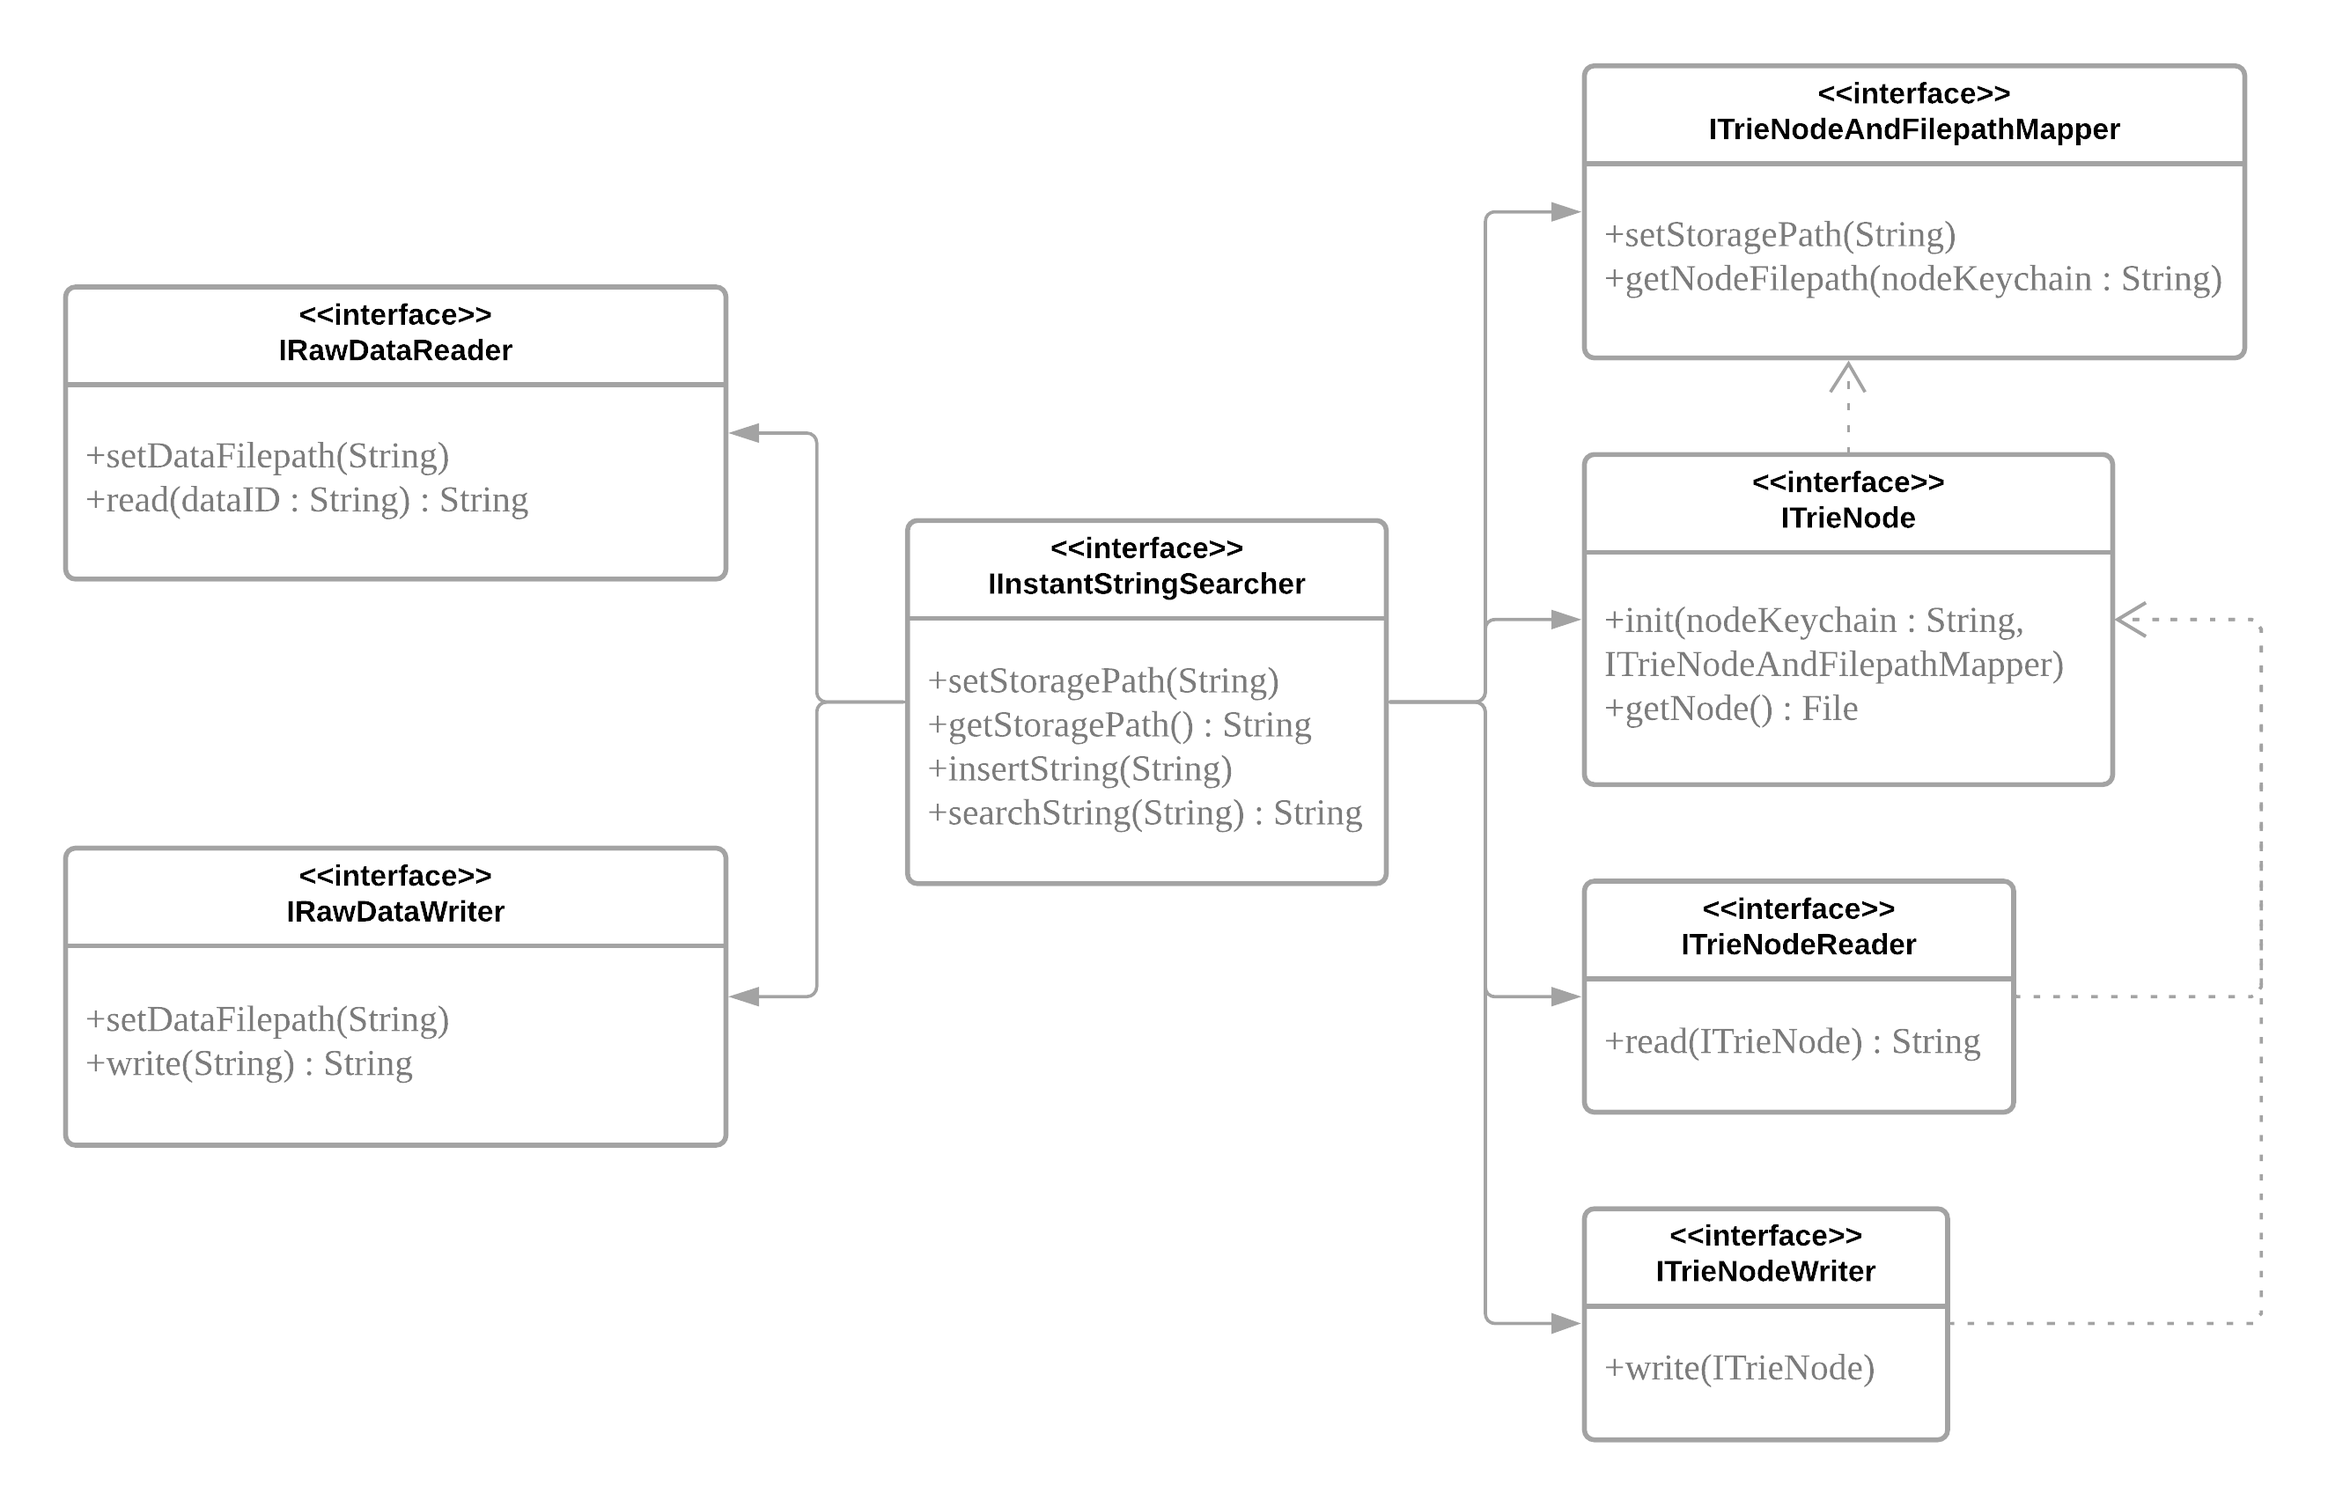
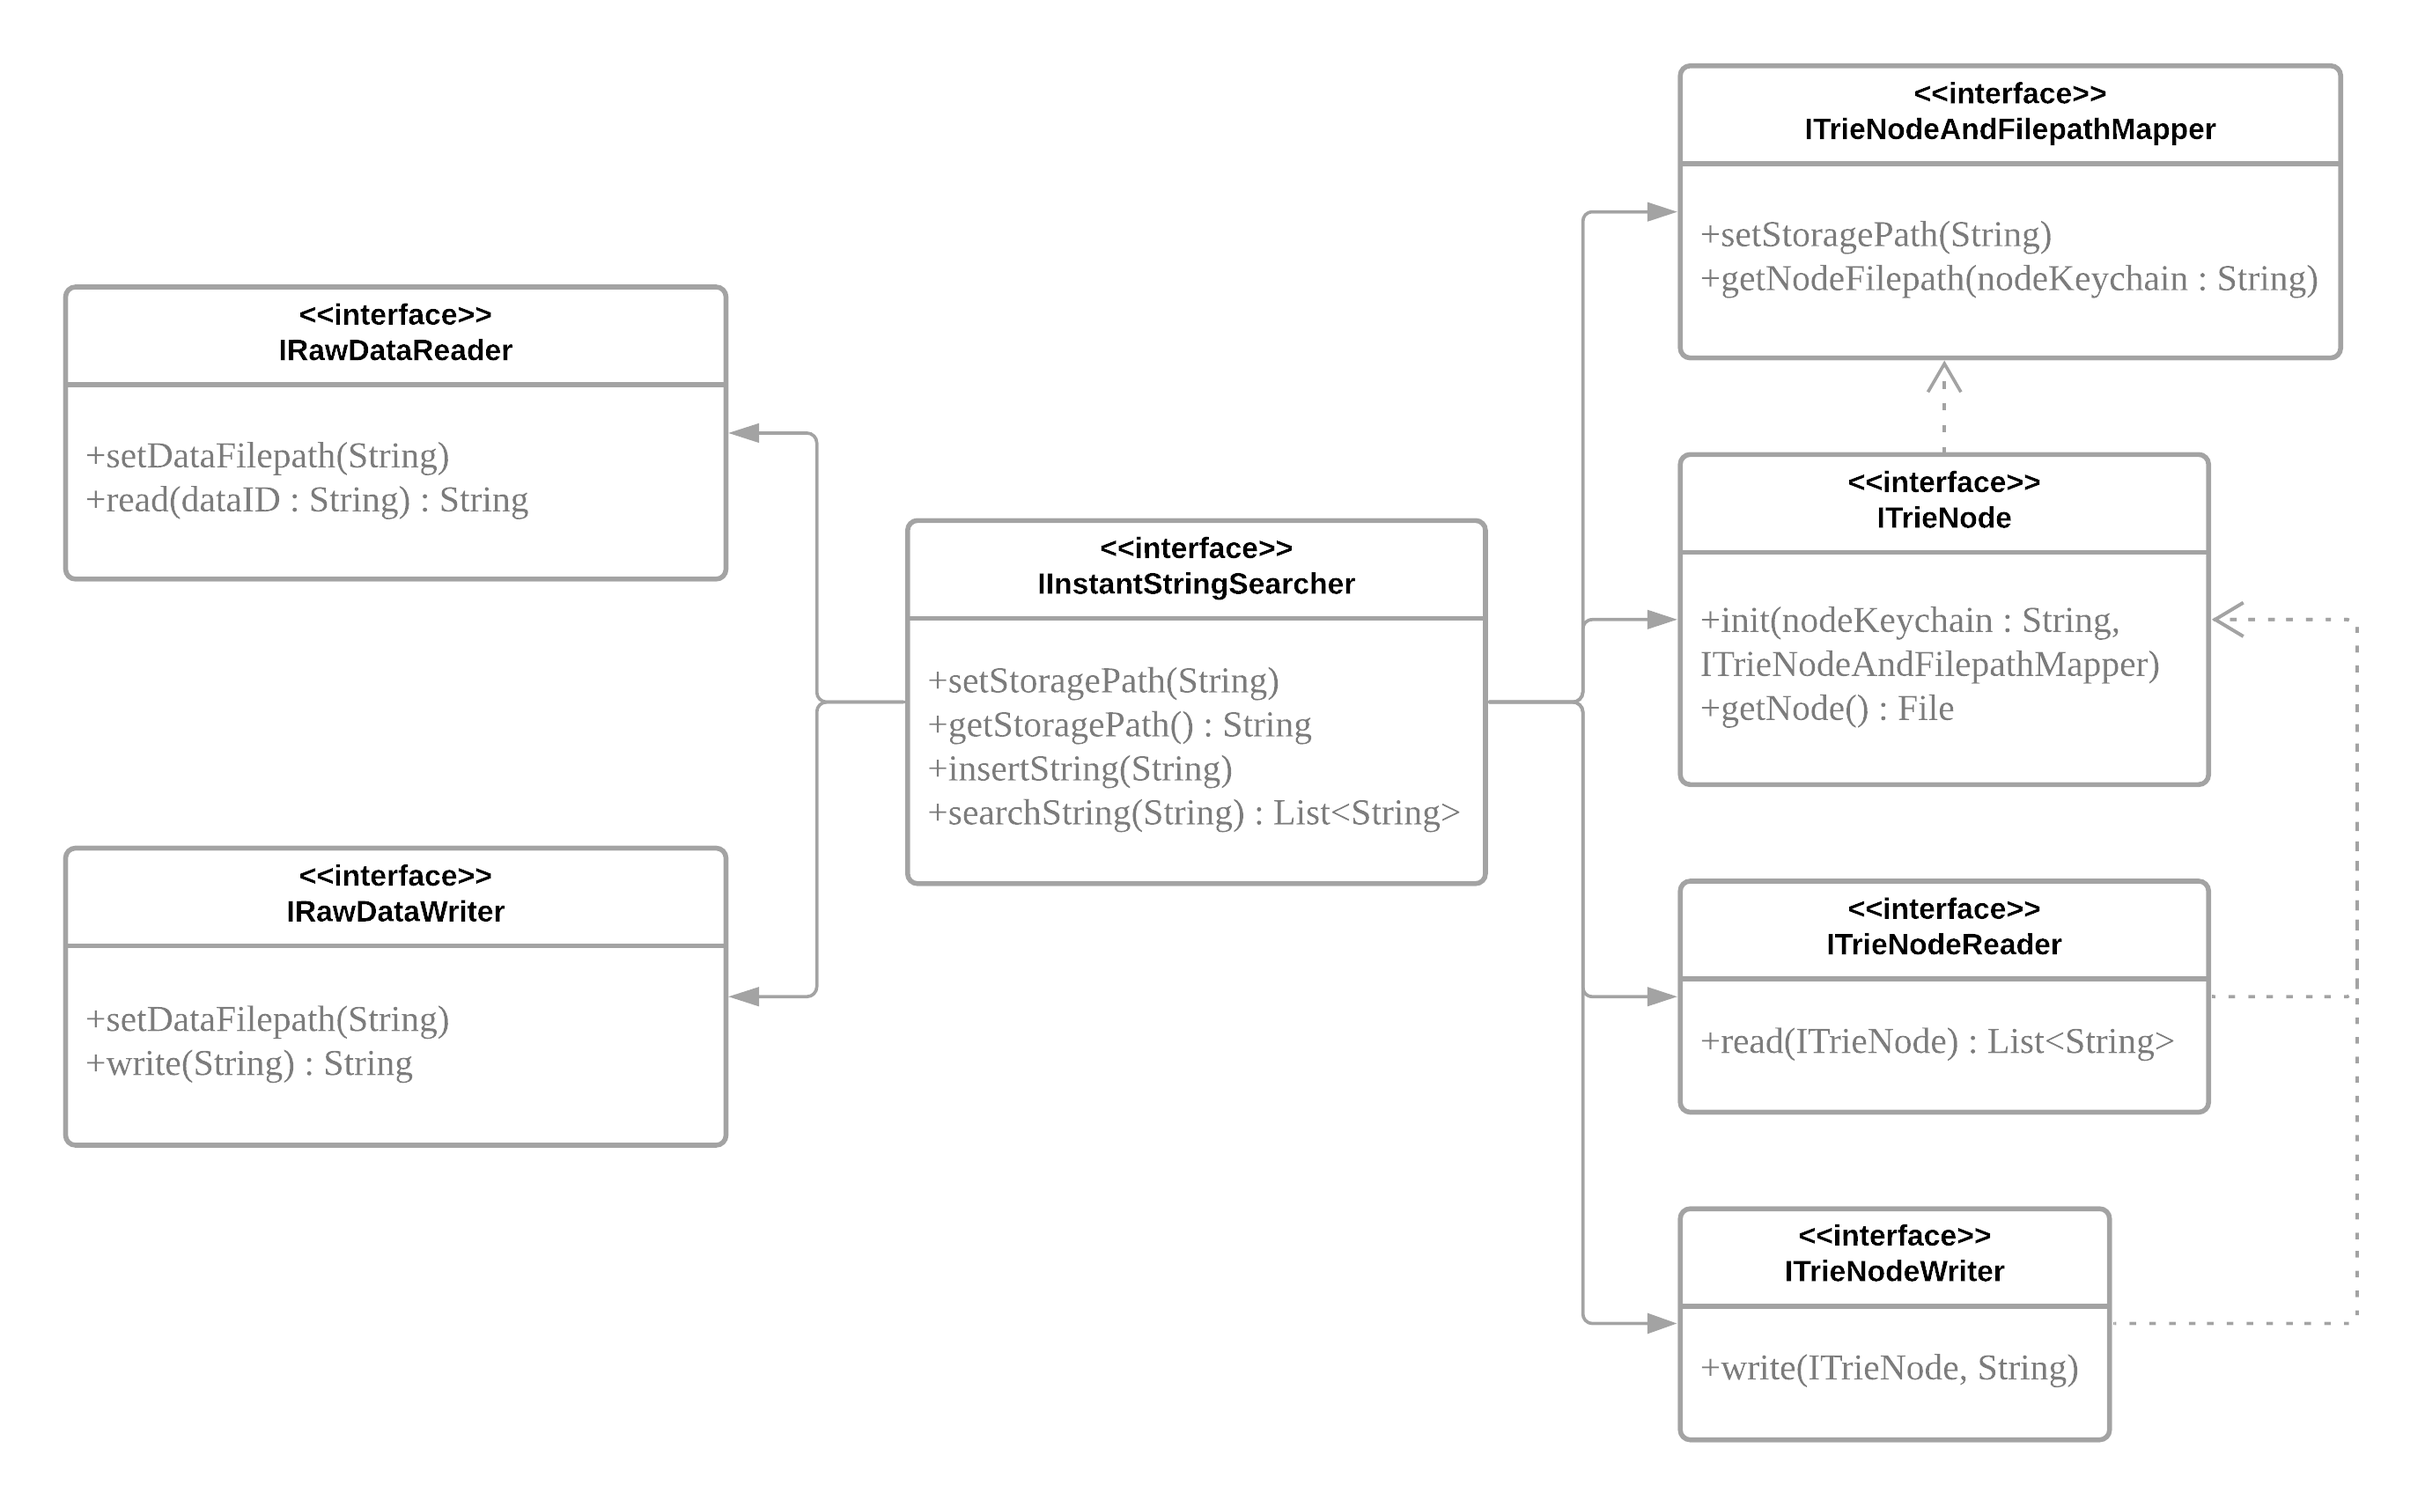
junit testcases, revise library interfaces

diff --git a/junittest/github/eightoooeight/instantstringsearcher/junittest/testcases/TrieNodeClassesTester.java b/junittest/github/eightoooeight/instantstringsearcher/junittest/testcases/TrieNodeClassesTester.java
@@ -9,31 +9,75 @@ import org.junit.Test;
 
 import github.eightoooeight.instantstringsearcher.junittest.util.*;
 import github.eightoooeight.instantstringsearcher.rawdata.*;
+import github.eightoooeight.instantstringsearcher.trienode.*;
 import java.io.File;
 import java.nio.file.Paths;
 import java.nio.file.Files;
 import java.io.IOException;
+import java.util.*;
+import java.util.function.*;
+import java.util.stream.*;
 
 public class TrieNodeClassesTester extends TestCase {
     protected static String _trieDirPath;
 
     @Before
     public void setUp() {
-        _trieDirPath = "build/data/trie/";
+        _trieDirPath = "build/data/trie";
         FileDeleter.deleteDirIfExists(new File(_trieDirPath));
     }
 
     @Test
     public void testTrieNodeAndFilepathMapper() {
-        System.out.println("Test case: " + this.getName());
-
-        System.out.println("----------------------------");
+        ITrieNodeAndFilepathMapper mapper = new TrieNodeAndFilepathMapper();
+        mapper.setStoragePath(_trieDirPath);
+        assertEquals(mapper.getNodeFilepath("apple"), _trieDirPath + "/apple.txt");
+        assertEquals(mapper.getNodeFilepath("orange"), _trieDirPath + "/orange.txt");
+        assertEquals(mapper.getNodeFilepath("A and B"), _trieDirPath + "/A and B.txt");
     }
 
     @Test
     public void testTrieNodeReaderWriter() {
-        System.out.println("Test case: " + this.getName());
+        List<String> toWriteToANode1 = Arrays.asList(new String[]{"ID-1"});
+        List<String> toWriteToANode2 = Arrays.asList(new String[]{"ID-10"});
+        List<String> toWriteToABNode1 = Arrays.asList(new String[]{"ID-10"});
 
-        System.out.println("----------------------------");
+        ITrieNodeAndFilepathMapper mapper = new TrieNodeAndFilepathMapper();
+        mapper.setStoragePath(_trieDirPath);
+        Function<String, ITrieNode> getNode = nodeKeychain -> {
+                ITrieNode node = new TrieNode();
+                node.init(nodeKeychain, mapper);
+                return node;
+            };
+        
+        toWriteToANode1.forEach(toWrite -> _writeTrieNode(getNode, "A", toWrite));
+        toWriteToANode2.forEach(toWrite -> _writeTrieNode(getNode, "A", toWrite));
+        toWriteToABNode1.forEach(toWrite -> _writeTrieNode(getNode, "AB", toWrite));
+
+        List<String> allANodeContent = Stream.concat(toWriteToANode1.stream(), toWriteToANode2.stream()).collect(Collectors.toList());
+        List<String> contentReadFromANode = _readTrieNode(getNode, "A");
+        assertEquals(allANodeContent.size(), contentReadFromANode.size());
+        for (int i = 0; i < allANodeContent.size(); i++) {
+            assertEquals(allANodeContent.get(i), contentReadFromANode.get(i));
+        }
+
+        List<String> contentReadFromABNode = _readTrieNode(getNode, "AB");
+        assertEquals(toWriteToABNode1.size(), contentReadFromANode.size());
+        for (int i = 0; i < toWriteToABNode1.size(); i++) {
+            assertEquals(toWriteToABNode1.get(i), contentReadFromABNode.get(i));
+        }
     }
+
+    private void _writeTrieNode(Function<String, ITrieNode> getNode, String nodeKeychain, String toWrite) {
+        ITrieNodeWriter nodeWriter = new TrieNodeWriter();
+        ITrieNode node = getNode.apply(nodeKeychain);
+        nodeWriter.write(node, toWrite);
+    }
+
+    private List<String> _readTrieNode(Function<String, ITrieNode> getNode, String nodeKeychain) {
+        ITrieNodeReader nodeReader = new TrieNodeReader();
+        ITrieNode node = getNode.apply(nodeKeychain);
+        return nodeReader.read(node);
+    }
+
 }

diff --git a/junittest/github/eightoooeight/instantstringsearcher/junittest/testcases/IoCClassTester.java b/junittest/github/eightoooeight/instantstringsearcher/junittest/testcases/IoCClassTester.java
@@ -9,27 +9,48 @@ import org.junit.Test;
 
 import github.eightoooeight.instantstringsearcher.junittest.util.*;
 import github.eightoooeight.instantstringsearcher.rawdata.*;
+import github.eightoooeight.instantstringsearcher.*;
 import java.io.File;
 import java.nio.file.Paths;
 import java.nio.file.Files;
 import java.io.IOException;
+import java.util.*;
+import java.util.stream.*;
+import java.util.function.*;
 
 public class IoCClassTester extends TestCase {
+    protected static String _storagePath;
     protected static String _trieDirPath;
     protected static String _rawDataFilepath;
 
     @Before
     public void setUp() {
-        _trieDirPath = "build/data/trie/";
-        _rawDataFilepath = "build/data/rawData.txt";
+        _storagePath = ".";
+        _trieDirPath = _storagePath + "/build/data/trie/";
+        _rawDataFilepath = _storagePath + "/build/data/rawData.txt";
         FileDeleter.deleteDirIfExists(new File(_trieDirPath));
         FileDeleter.deleteFileIfExists(_rawDataFilepath);
     }
 
     @Test
     public void testIoC() {
-        System.out.println("Test case: " + this.getName());
+        List<String> toInsert = Arrays.asList(new String[]{"Hi, this is Jack.", "Nice to meet you. I am Sarah.", "You are so pretty, Sarah."});
+        
+        IInstantStringSearcher instantStringSearcher = new InstantStringSearcher();
+        instantStringSearcher.setStoragePath(_storagePath);
+        toInsert.forEach(pieceToInsert -> instantStringSearcher.insertString(pieceToInsert));
+        List<String> is_searchResult = instantStringSearcher.searchString("is");
+        List<String> you_searchResult = instantStringSearcher.searchString("you");
+        List<String> jack_searchResult = instantStringSearcher.searchString("Jack");
 
-        System.out.println("----------------------------");
+        assertEquals(is_searchResult.size(), 2);
+        assertEquals(is_searchResult.get(0), toInsert.get(0));
+        assertEquals(is_searchResult.get(1), toInsert.get(0));
+
+        assertEquals(you_searchResult.size(), 1);
+        assertEquals(you_searchResult.get(0), toInsert.get(1));
+
+        assertEquals(jack_searchResult.size(), 1);
+        assertEquals(jack_searchResult.get(0), toInsert.get(0));
     }
 }

diff --git a/junittest/github/eightoooeight/instantstringsearcher/junittest/testcases/RawDataClassesTester.java b/junittest/github/eightoooeight/instantstringsearcher/junittest/testcases/RawDataClassesTester.java
@@ -1,6 +1,7 @@
 package github.eightoooeight.instantstringsearcher.junittest.testcases;
 
 import junit.framework.TestCase;
+import static org.junit.Assert.*;
 import org.junit.Before;
 import org.junit.After;
 import org.junit.BeforeClass;
@@ -12,6 +13,7 @@ import github.eightoooeight.instantstringsearcher.rawdata.*;
 import java.nio.file.Paths;
 import java.nio.file.Files;
 import java.io.IOException;
+import java.util.*;
 
 public class RawDataClassesTester extends TestCase {
     protected static String _rawDataFilepath;
@@ -24,8 +26,25 @@ public class RawDataClassesTester extends TestCase {
 
     @Test
     public void testRawDataReaderWriter() {
-        System.out.println("Test case: " + this.getName());
+        List<String> rawData = Arrays.asList(new String[]{"Hi, this is Jack.", "Nice to meet you. I am Sarah.", "You are so pretty, Sarah."});
+        HashMap<String, String> rawDataDict = _writeRawData(rawData);
+        rawDataDict.forEach((dataID, dataValue) -> assertEquals(_readRawData(dataID), dataValue));
+    }
 
-        System.out.println("----------------------------");
+    /*
+     * @return HashMap<data-ID, data-value>
+     */
+    private HashMap<String, String> _writeRawData(List<String> rawData) {
+        IRawDataWriter rawDataWriter = new RawDataWriter();
+        rawDataWriter.setDataFilepath(_rawDataFilepath);
+        HashMap<String, String> result = new HashMap<>();
+        rawData.forEach(dataPiece -> result.put(rawDataWriter.write(dataPiece), dataPiece));
+        return result;
+    }
+
+    private String _readRawData(String dataID) {
+        IRawDataReader rawDataReader = new RawDataReader();
+        rawDataReader.setDataFilepath(_rawDataFilepath);
+        return rawDataReader.read(dataID);
     }
 }

diff --git a/instantstringsearcher/github/eightoooeight/instantstringsearcher/InstantStringSearcher.java b/instantstringsearcher/github/eightoooeight/instantstringsearcher/InstantStringSearcher.java
@@ -1,8 +1,10 @@
 package github.eightoooeight.instantstringsearcher;
 
+import java.util.List;
+
 public class InstantStringSearcher implements IInstantStringSearcher{
     public void setStoragePath(String storagePath) {}
     public String getStoragePath() { return null; }
     public void insertString(String toInsert) {}
-    public String searchString(String searchStr) { return null; }
+    public List<String> searchString(String searchStr) { return null; }
 }

diff --git a/junittest/github/eightoooeight/instantstringsearcher/junittest/TestRunner.java b/junittest/github/eightoooeight/instantstringsearcher/junittest/TestRunner.java
@@ -11,7 +11,7 @@ public class TestRunner {
       Result result = JUnitCore.runClasses(JUnitTestSuite.class);
 
       for (Failure failure : result.getFailures()) {
-         System.out.println(failure.toString());
+         System.out.println(failure.toString() + "\n");
       }
 		
       System.out.println(result.wasSuccessful() ? "The testes were all successful." : "The testes failed");

diff --git a/instantstringsearcher/github/eightoooeight/instantstringsearcher/IInstantStringSearcher.java b/instantstringsearcher/github/eightoooeight/instantstringsearcher/IInstantStringSearcher.java
@@ -1,8 +1,10 @@
 package github.eightoooeight.instantstringsearcher;
 
+import java.util.List;
+
 public interface IInstantStringSearcher {
     public void setStoragePath(String storagePath);
     public String getStoragePath();
     public void insertString(String toInsert);
-    public String searchString(String searchStr);
+    public List<String> searchString(String searchStr);
 }

diff --git a/instantstringsearcher/github/eightoooeight/instantstringsearcher/trienode/TrieNodeReader.java b/instantstringsearcher/github/eightoooeight/instantstringsearcher/trienode/TrieNodeReader.java
@@ -1,7 +1,8 @@
 package github.eightoooeight.instantstringsearcher.trienode;
 
 import github.eightoooeight.instantstringsearcher.trienode.ITrieNode;
+import java.util.List;
 
 public class TrieNodeReader implements ITrieNodeReader{
-    public String read(ITrieNode node) { return null; }
+    public List<String> read(ITrieNode node) { return null; }
 }

diff --git a/instantstringsearcher/github/eightoooeight/instantstringsearcher/trienode/TrieNodeWriter.java b/instantstringsearcher/github/eightoooeight/instantstringsearcher/trienode/TrieNodeWriter.java
@@ -3,5 +3,5 @@ package github.eightoooeight.instantstringsearcher.trienode;
 import github.eightoooeight.instantstringsearcher.trienode.ITrieNode;
 
 public class TrieNodeWriter implements ITrieNodeWriter{
-    public void write(ITrieNode node) {}
+    public void write(ITrieNode node, String toWrite) {}
 }

diff --git a/instantstringsearcher/github/eightoooeight/instantstringsearcher/trienode/ITrieNodeReader.java b/instantstringsearcher/github/eightoooeight/instantstringsearcher/trienode/ITrieNodeReader.java
@@ -1,7 +1,8 @@
 package github.eightoooeight.instantstringsearcher.trienode;
 
 import github.eightoooeight.instantstringsearcher.trienode.ITrieNode;
+import java.util.List;
 
 public interface ITrieNodeReader {
-    public String read(ITrieNode node);
+    public List<String> read(ITrieNode node);
 }

diff --git a/instantstringsearcher/github/eightoooeight/instantstringsearcher/rawdata/RawDataWriter.java b/instantstringsearcher/github/eightoooeight/instantstringsearcher/rawdata/RawDataWriter.java
@@ -2,5 +2,5 @@ package github.eightoooeight.instantstringsearcher.rawdata;
 
 public class RawDataWriter implements IRawDataWriter{
     public void setDataFilepath(String dataFilepath) {}
-    public String write() { return null; }
+    public String write(String toWrite) { return null; }
 }

diff --git a/instantstringsearcher/github/eightoooeight/instantstringsearcher/trienode/ITrieNodeWriter.java b/instantstringsearcher/github/eightoooeight/instantstringsearcher/trienode/ITrieNodeWriter.java
@@ -3,5 +3,5 @@ package github.eightoooeight.instantstringsearcher.trienode;
 import github.eightoooeight.instantstringsearcher.trienode.ITrieNode;
 
 public interface ITrieNodeWriter {
-    public void write(ITrieNode node);
+    public void write(ITrieNode node, String toWrite);
 }

diff --git a/instantstringsearcher/github/eightoooeight/instantstringsearcher/rawdata/IRawDataWriter.java b/instantstringsearcher/github/eightoooeight/instantstringsearcher/rawdata/IRawDataWriter.java
@@ -2,5 +2,5 @@ package github.eightoooeight.instantstringsearcher.rawdata;
 
 public interface IRawDataWriter {
     public void setDataFilepath(String dataFilepath);
-    public String write();
+    public String write(String toWrite);
 }
